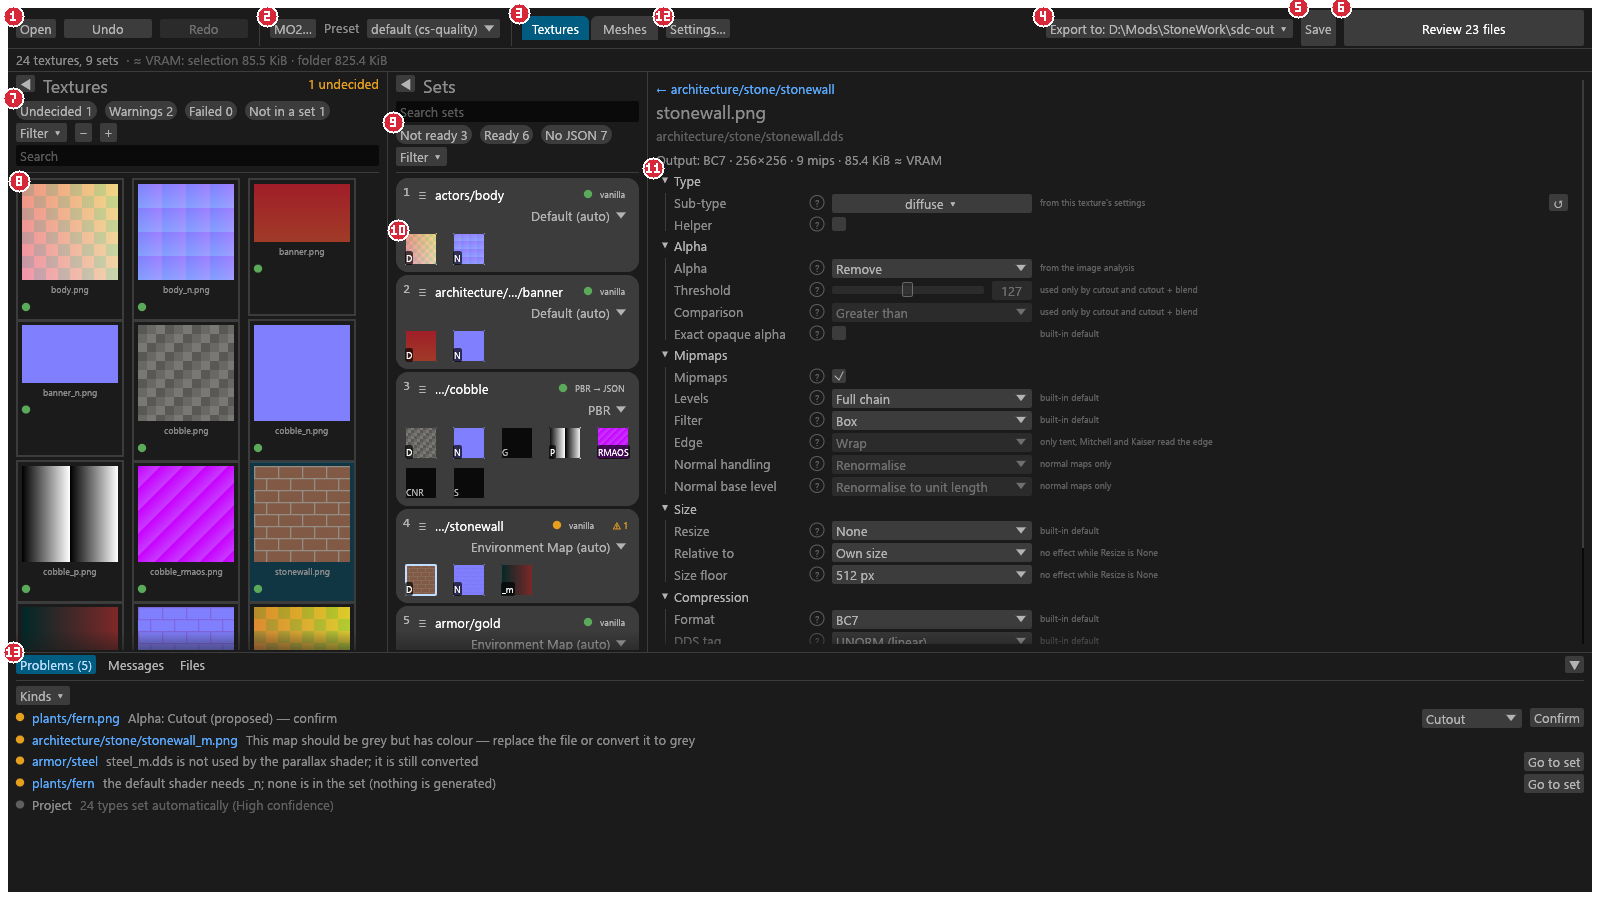
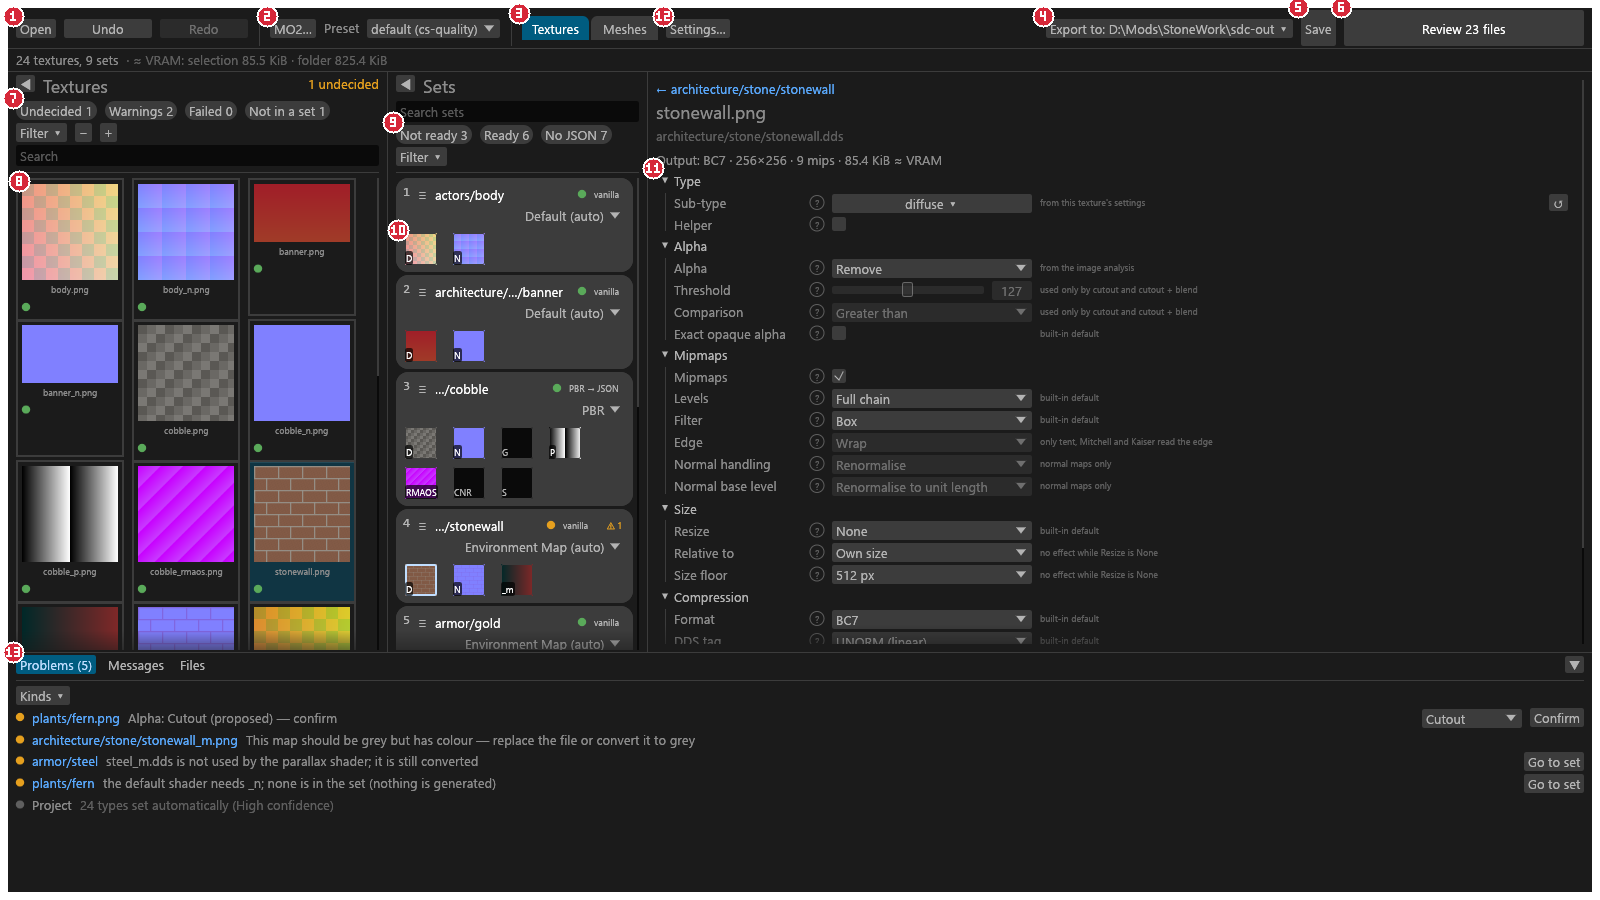
docs: Note JJ (mesh combo wraps, column scroll bars at rest), changelog, six doc shots re-rendered

diff --git a/.claude/DECISIONS.md b/.claude/DECISIONS.md
@@ -20,10 +20,10 @@ A new note goes at the end of this file and adds its letter to the index line of
 - Manifest and outputs: F, M, N, S, Y, AE, AF, AL, BJ, BQ, BV, CN, CT, DM, DY, FC, FM, FZ, HB, HE, HQ, HF, HR, HS, HZ, JA, JB, JC
 - Exports (PGPatcher, CS PBR, CM, XPMF, Also): P, V, AA, AB, AC, AD, AF, AG, AN, AT, BO, BR, BV, BY, CN, CO, CV, GE, GI, FM, FN, FO, FP, FT, FW, FV, HB, GV, GW, HL, HQ, HF, HJ, HT, HS, JH, JI
 - CLI: I, J, K, X, BC, BQ, CN, DY, FC, FM, FX, GV, GW, GY, IB, HS, JA
-- GUI Files and Inspector: N, P, S, U, Z, AA, AE, AF, AG, AM, AN, AO, AV, AY, BH, BI, BN, BO, BR, BS, BV, BY, CA, CC, CD, CE, CF, CG, CV, DN, DO, DP, DU, DZ, FA, FB, FC, FD, FI, FK, FL, FM, FN, FO, FP, FT, FS, FW, FU, FY, HB, HC, HE, HG, GV, HM, HN, GW, GY, HP, IA, HL, HF, IB, HJ, HR, HV, HS, JE, JD, JF, JG, JH, JI
+- GUI Files and Inspector: N, P, S, U, Z, AA, AE, AF, AG, AM, AN, AO, AV, AY, BH, BI, BN, BO, BR, BS, BV, BY, CA, CC, CD, CE, CF, CG, CV, DN, DO, DP, DU, DZ, FA, FB, FC, FD, FI, FK, FL, FM, FN, FO, FP, FT, FS, FW, FU, FY, HB, HC, HE, HG, GV, HM, HN, GW, GY, HP, IA, HL, HF, IB, HJ, HR, HV, HS, JE, JD, JF, JG, JH, JI, JJ
 - GUI Settings panel: S, V, X, Z, AF, AG, AJ, AN, AS, AW, BM, BS, CC, CL, CV, FB, FC, FM, FS, FT, FY, GU, GV, GW, HP, IA, IB, HI, HJ, HV, HY, JF, JG, JI
 - GUI Meshes view: BA, BT, CV, CZ, FC, FI, GC, GD, GH, GJ, GK, GN, GO, GP, FO, GQ, GR, HS
-- GUI Preview and 3D: N, AG, AQ, AU, BS, CE, CJ, CL, CM, DT, FA, GD, GG, GH, GJ, GK, GL, GM, FM, FO, GQ, FS, FT, FY, FZ, GR, GT, GU, GX, GZ, IB, HS, HX, JH, JI
+- GUI Preview and 3D: N, AG, AQ, AU, BS, CE, CJ, CL, CM, DT, FA, GD, GG, GH, GJ, GK, GL, GM, FM, FO, GQ, FS, FT, FY, FZ, GR, GT, GU, GX, GZ, IB, HS, HX, JH, JI, JJ
 - GUI Dialogs and Export: AG, BH, BO, BR, BV, BY, CA, CD, CE, CF, CN, CV, DT, FB, FC, FI, FM, FN, FO, FP, FS, FW, FU, GU, HB, HC, HE, GV, GY, HL, HF, HQ, HH, HI, HJ, HR, HS, JA, JF, JI
 - modscan: BE, BQ, BT, BU, BW, BY, CK, CM, CN, CV, CW, DA, GA, GB, GC, GD, GJ, GO, GP, GQ, HK, IB
 - vfs: AV, BP, BU, CV
@@ -1572,3 +1572,10 @@ The owner approved the design on 2026-11-15 ("doc approved, yes add a this proje
   - **Scroll bars.** The moved rows make the centre's panels taller, so the texture panel, the bulk panel and the set editor each scope `ScrollStyle::thin()` on their scroll area (rule 3.2, as CC21 and CN86): the bar shows without hover. The set editor's had been the floating default since FB2's one column. `hint_and_reset`, the set editor's File cell and the shared row's ✕ keep their `bar_width + bar_outer_margin` reserve: the thin bar takes 6 px beside the content and senses 10 px, so 4 of them lie over it. Tests in `crates/gui/tests/scroll_bars.rs` read the paint (a bar has no AccessKit node).
   - **Old keys.** A `gui.toml` with `advanced_open` or a `[layout.widths] advanced` width loads without a message, and the keys are dropped on the next save. The column widget ids shift once, since the drawer's `skip_ahead_auto_ids(1)` branch is gone.
   - Amends CC5 (3D routing), CD18 (the start screen), CE17 (the drawer's 260 px minimum is gone with it), FN2, FY1, HE6 (no strip to skip), FM14, FM15, FM16, FM45 and FO3 (their drawer wording). Tests `set_panel::no_window_edge_strip_in_any_state` and `settings::old_advanced_keys_load_and_are_dropped_on_save`.
+
+## Note JJ — The 3D toolbar's mesh combo wraps, and the Textures and Sets columns show their scroll bars (main team, 2026-11-16)
+
+Two layout bugs from the Settings plan's UI proof (2026-11-15), B4 and B5, both older than that plan. Agent rulings.
+
+- **JJ1 The mesh combo sits in an exact-width slot (rule 3.5).** At 1100x800 the set preview's toolbar drew "Mesh: Auto (Sphere)" from x 1020 to 1163 in a centre that ends at 1092. egui's `ComboBox` lays itself out in a child `horizontal` ui, and the toolbar's `horizontal_wrapped` row places that child before its width is known, so the combo never took the next row (View ▾ after it did). `set_preview::mesh_picker` now measures the whole text (Button style, plus the icon and the button padding) and puts the combo in `allocate_ui` of that width, which the row wraps like any sized widget. A row narrower than the text gets a slot as wide as the row; the text truncates there, with the whole of it on hover and, as before, in the combo's accessible value. Test `set_preview_layout::the_mesh_combo_stays_inside_the_window_at_1100` (failed before the fix). `shortcut:` no fixture has a mesh name long enough to truncate, so that branch has no test; add one if a long NIF label shows a problem.
+- **JJ2 The Textures and Sets columns scope `ScrollStyle::thin()` (rule 3.2, as JI7 for the centre's panels).** egui's default floating bar is transparent until hovered, so a column longer than the window gave no cue. Thin draws the bar at rest; hovered it grows to 10 px. The Textures tiles already leave `SCROLL_ALLOWANCE` (18 px) on the right, so the bar never covers a tile. In the Sets column the bar takes a 6 px gutter, so the cards end before the bar at rest; hovered, it reaches only the cards' frame margin (7 px). The FM32 chip-row estimate keeps using the column's width (a `shortcut:` at the call): measuring the cards' width instead would make the bar's appearing a re-flow, and a re-flow scrolls back to the open set. Tests `scroll_bars::{the_textures_column_shows_its_bar_at_rest, the_sets_column_shows_its_bar_at_rest}` read the paint, as JI7's do. Both failed before the fix (bar alpha 0). Each also checks that the reserves cover the bar: beside the bar no control reaches its hovered 10 px, and no set card reaches it at rest. The Sets check fails with thin and a 0 px gutter.

diff --git a/CHANGELOG.md b/CHANGELOG.md
@@ -26,6 +26,7 @@
 - The set editor's diffuse row has an alpha dropdown in place of the **Opaque** toggle, with **Confirm** while the alpha is still a proposal and ↺ to go back to the inherited alpha. In a narrow window, the Textures and Sets columns give up about 184 px more while a set is open in 2D.
 - Saved `[files]` entries that name no file in the current mode are one Problems row, with **Entries ▾** to remove them one at a time and **Remove all**.
 - The **Advanced** drawer at the window's right edge is gone; its settings are in the places above. An older `gui.toml` still loads.
+- The Textures and Sets columns show their scroll bar when the pointer is not over them, so a list longer than the window says so. In the set's 3D view the **Mesh** dropdown moves to the next toolbar row when the row is full; at 1100 px wide it used to run past the window's right edge.
 
 ## 3.0.0
 
